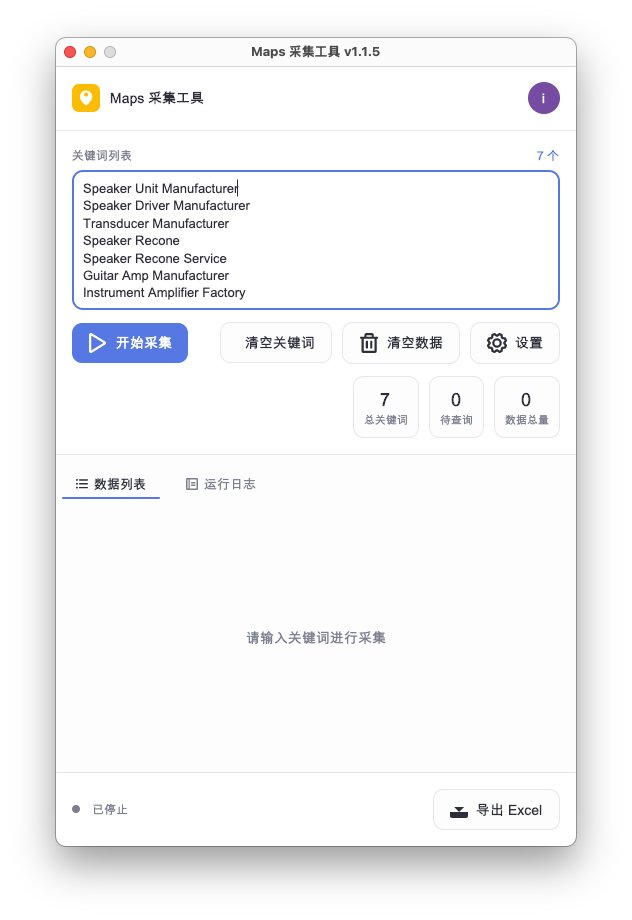
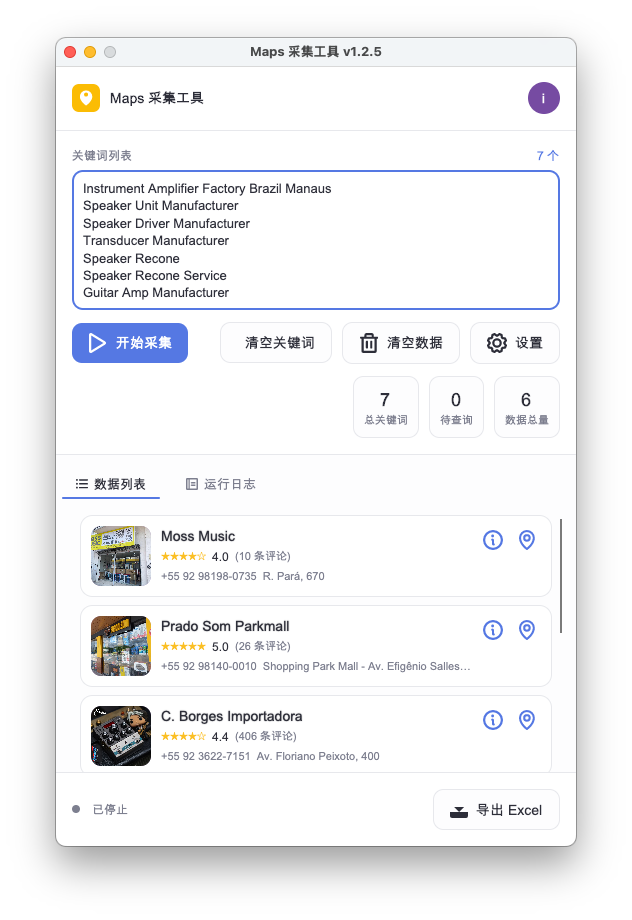
docs(googlemap): 更新软件文档，补充截图、安装说明与参数说明
- 新增商家信息面板与数据导出截图
- 新增 macOS 平台安装命令及试用账号
- 补充 MoreLogin 配置细节与控制接口激活说明
- 优化工作流程与数据导出描述
- 新增工作演示动图

diff --git a/docs/googlemapapp.md b/docs/googlemapapp.md
@@ -10,6 +10,11 @@
 
 ![工作面板主界面](images/googlemap_app.png "Maps 采集工具工作面板")
 
+![商家信息面板](images/googlemap_app_detail.png "Maps 采集工具商家信息面板")
+
+![采集工具数据导出](images/googlemap_app_excel.png "Maps 采集工具数据导出")
+
+
 
 **用 AI 重新定义地图拓客效率**
 
@@ -53,6 +58,24 @@
 <img src="./images/googlemap_app_qrcode.jpg" alt="联系二维码" style="width: 360px; height: 480px; border: 1px solid #e2e8f0; border-radius: 8px;" />
 </div>
 
+
+
+## 安装说明
+
+> 试用账号 `guest` / 密码 `123456`
+
+<!-- tabs:start -->
+
+
+### **macOS 平台**
+> 打开终端粘贴如下命令
+
+```bash
+/bin/bash -c "$(curl -fsSL https://files.443disk.xyz/PlaceHarvester.Desktop/install-osx.sh)"
+```
+
+<!-- tabs:end -->
+
 ## 设置参数 
 
 运行程序，切换参数配置。第一次运行时，程序会自动跳转到参数设置界面，如下图所示
@@ -63,16 +86,21 @@
 
 - **最大采集数量**：每个关键词最多采集的商家数据条数
 - **请求间隔**：两次搜索之间的等待时间（毫秒），用于模拟人工操作，降低被识别风险
-- **下载商家图片**：是否下载商家门店主图；不勾选可加快采集速度
-- **代理地址**：如需通过代理访问 Google 地图，填写代理地址（如 `http://192.168.0.60:7893`）；本机可直接访问则留空
+- **下载商家图片**：是否下载商家门店主图；不勾选可加快采集速度。 下载的图片可以嵌入到导出的 excel 中， 方便查看。
 - **超时时间**：单页加载超时时间（秒）
 
 ### MoreLogin 服务
 
+> 第一次使用 MoreLogin 务必激活一下 MoreLogin 的控制接口。在侧边栏的 "开发者 & AI智能体" 按钮上点击一下即可
+
 - **启用服务**：是否启用 MoreLogin 指纹浏览器服务，用于多账号隔离与防封号
 - **服务地址**：MoreLogin 服务的地址（默认 `http://127.0.0.1`）
-- **服务端口**：MoreLogin 服务的端口号
-- **API Key**：访问密钥，未设置请留空
+- **服务端口**：MoreLogin 服务的端口号， 默认 40000
+- **API Key**：访问密钥，未设置请留空， 默认不用填写，如果您在 MoreLogin 中设置过 api key， 从 MoreLogin 中复制该 key 填入即可
+
+<img src="images/googlemap_app_morelogin_enableapi.png" alt="启用 MoreLOgin 控制接口" width="240" />
+<p><b>启用 MoreLOgin 控制接口</b></p>
+
 
 点击"转到工作区"按钮，或是点击侧边栏中的"工作面板"切换到工作面板界面。
 
@@ -86,29 +114,20 @@
 - **操作按钮**：
   - **开始采集**：启动自动采集，程序将打开指纹浏览器跳转到 Google 地图并按关键词组合搜索
   - **清空关键词**：清除已输入的关键词列表
-  - **清空数据**：删除采集进度或数据结果（下拉菜单可选择清空范围）
+  - **清空数据**：删除采集进度及数据结果
   - **设置**：跳转回参数配置界面
 - **统计信息**：实时显示总关键词数、待查询数、数据总量
 - **数据列表 / 运行日志**：Tab 切换查看采集结果或运行日志
 - **导出 Excel**：将采集到的商家数据导出为 Excel 文件
 
-点击"开始采集"按钮后，程序将自动打开指纹浏览器跳转到 Google 地图首页，并等待用户进行登录（如需）。登录完成后，程序将自动开始按关键词组合搜索。采集过程中可随时点击"停止采集"暂停；再次点击"开始采集"将从断点续跑（已采集的组合会被自动跳过）。
+点击"开始采集"按钮后，程序将自动打开指纹浏览器跳转到 Google 地图首页进行工作，一般情况下不需要用户登录 google 地图。如果需要登录，可以先在指纹浏览登录完成后，再启动工具进行搜索。采集过程中可随时点击"停止采集"暂停；再次点击"开始采集"将从断点续跑（已采集的组合会被自动跳过）。
 
 
 ## 导出数据
 
 点击工作面板右下角的 **"导出 Excel"** 按钮，选择导出目录及文件名后，程序将采集到的商家数据导出为 Excel 文件。
 
-> 如需对采集结果做 AI 精挑（文本评分 + 图片过滤 + 过滤导出），可在精挑流程中进一步筛选，最终只导出高价值线索。
-
-
-## 清空数据
-
-采集过程中，程序将记录关键词的工作结果，再次工作时成功或失败的关键词将被跳过。如需重新采集，可点击操作区的 **"清空数据"** 按钮，在下拉菜单中选择相应选项：
-
-- **清空失败采集进度**：只删除所有失败的采集进度，保留成功采集的进度及数据结果
-- **清空采集进度**：清空所有的采集进度，保留成功采集的数据结果
-- **清空所有数据**：清空所有采集的进度及数据结果
+> 导出完成后，可以在 excel 文件中对结果进行二次排序、筛选，以得到高价值线索。
 
 
 ## 隐私与数据安全
@@ -117,3 +136,7 @@
 - **不收集用户数据**：本工具不依赖第三方抓取 API，不回传用户查询与结果。
 - **数据不出本机**：所有采集与导出操作均在你的设备上完成，客户名单只存在于你指定的本地目录。
 - **合规使用**：请遵守 Google 地图使用条款与目标地区的法律法规，仅将本工具用于合法的业务拓客与调研。
+
+## 工作演示
+
+![采集演示](images/googlemap_demo.gif)
